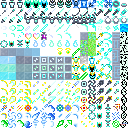
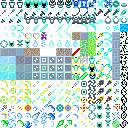
Dante - Fixed some misc bugs and serverplayershoot stuff

diff --git a/AlloyClient/Game/Objects/Player.cs b/AlloyClient/Game/Objects/Player.cs
@@ -324,17 +324,18 @@ public class Player : Entity {
                     proj.Reset(bId, dmg, projAngle, this, objProps, projPropsInfo);
                     Map.AddProjectile(proj);
 
-                    if (i == 0)
+                    if (i == 0) {
                         if (!string.IsNullOrEmpty(props.OldSound))
                             SoundManager.PlaySoundEffect(props.OldSound, SoundType.Weapon);
 
-                    shootPacket.Shots.Add(new ShootData {
-                        Time = time,
-                        BulletId = bId,
-                        ItemType = ability.ObjectType,
-                        StartingPos = new Position { X = Position.X, Y = Position.Y },
-                        Angle = projAngle
-                    });
+                        shootPacket.Shots.Add(new ShootData {
+                            Time = time,
+                            BulletId = bId,
+                            ItemType = ability.ObjectType,
+                            StartingPos = new Position { X = Position.X, Y = Position.Y },
+                            Angle = projAngle
+                        });
+                    }
 
                     startCount++;
                     if (startCount % nextCount == 0) projTypeIndex++;
@@ -572,13 +573,14 @@ public class Player : Entity {
         return attFreq;
     }
 
-    public void Shoot(float attackAngle, GameTime gameTime, bool isAbility) {
+public void Shoot(float attackAngle, GameTime gameTime, bool isAbility) {
         if (HasConditionEffect(ConditionEffects.Stunned) || HasConditionEffect(ConditionEffects.Paused)) return;
         var item = Equipment[0];
         if (item == null) return;
 
         var temp = AttackFrequency();
-        AttackPeriod = 1 / temp * (1 / item.RateOfFire);
+        AttackPeriod = (float)((1 / temp * (1 / item.RateOfFire)) * 1.02); 
+        
         if (gameTime.TotalMs < AttackStart + AttackPeriod) return;
 
         AttackAngle = attackAngle;
@@ -604,25 +606,25 @@ public class Player : Entity {
             var rawDmg = seededRand.Next(projDesc.MinDamage, projDesc.MaxDamage + 1);
             var dmg = (int)(rawDmg * (0.5f + Attack / 50f));
 
-            //Logger.Info($"Spawning Projectile: {seededRand} : {bId} : {AccountId} : {dmg}");
             if (!props.ProjectilesDict.TryGetValue(projDesc.BulletType, out var projProps))
                 projProps = props.Projectiles[0];
 
             var proj = ObjectPools.Projectiles.Pop();
             proj.Reset(bId, dmg, angle, this, objProps, projProps);
             Map.AddProjectile(proj);
-
-            if (i == 0)
+            
+            if (i == 0) {
                 if (!string.IsNullOrEmpty(props.OldSound))
                     SoundManager.PlaySoundEffect(props.OldSound, SoundType.Weapon);
 
-            PendingShots.Add(new ShootData {
-                Time = (int)Main.GameTime.TotalMs,
-                BulletId = bId,
-                ItemType = item.ObjectType,
-                StartingPos = new Position { X = Position.X, Y = Position.Y },
-                Angle = attackAngle
-            });
+                PendingShots.Add(new ShootData {
+                    Time = (int)Main.GameTime.TotalMs,
+                    BulletId = bId,
+                    ItemType = item.ObjectType,
+                    StartingPos = new Position { X = Position.X, Y = Position.Y },
+                    Angle = attackAngle
+                });
+            }
 
             startCount++;
             if (startCount % nextCount == 0) projTypeIndex++;

diff --git a/AlloyClient/Networking/Packets/Incoming/ServerPlayerShoot.cs b/AlloyClient/Networking/Packets/Incoming/ServerPlayerShoot.cs
@@ -10,9 +10,13 @@ public class ServerPlayerShoot : IncomingPacket<ServerPlayerShoot> {
     public int BulletId;
     public int OwnerId;
     public int ContainerType;
-    public Position StartingPos;
+    public int Prjtype;
+    
+    public Position StartingPos = new Position();
+    
     public float Angle;
     public short Damage;
+    public bool UsePlayerPos;
 
     public override PacketId PacketId => PacketId.ServerPlayerShoot;
 
@@ -23,34 +27,41 @@ public class ServerPlayerShoot : IncomingPacket<ServerPlayerShoot> {
         StartingPos.Reset();
         Angle = 0;
         Damage = 0;
+        Prjtype = 0;
+        UsePlayerPos = false;
     }
 
     public override void Read(NetworkReader reader) {
         BulletId = reader.ReadInt32();
         OwnerId = reader.ReadInt32();
         ContainerType = reader.ReadInt32();
+        Prjtype = reader.ReadInt32();
         StartingPos.Read(reader);
         Angle = reader.ReadSingle();
         Damage = reader.ReadInt16();
+        UsePlayerPos = reader.ReadBoolean();
     }
 
     public override void Handle() {
         if (!Map.Entities.TryGetValue(OwnerId, out var owner)) return;
         if (!ObjectLibrary.TypeToObjectProps.TryGetValue((ushort)ContainerType, out var itemDesc)) return;
-        
-        var enumerator = itemDesc.Projectiles.GetEnumerator();
-        if (!enumerator.MoveNext()) return;
-        var projDesc = enumerator.Current;
+    
+        if (itemDesc.Projectiles == null || itemDesc.Projectiles.Count == 0) return;
+        var projDesc = itemDesc.Projectiles[0];
+        if (string.IsNullOrEmpty(projDesc.ObjectId)) return;
 
         if (!ObjectLibrary.IdToObjectType.TryGetValue(projDesc.ObjectId, out var projObjType)) return;
         if (!ObjectLibrary.TypeToObjectProps.TryGetValue(projObjType, out var projObjDesc)) return;
 
         var proj = ObjectPools.Projectiles.Pop();
         proj.Reset(BulletId, Damage, Angle, owner, projObjDesc, projDesc);
-        
-        proj.SetStartPosition(new Vector2(StartingPos.X, StartingPos.Y));
-        proj.MarkActive(Map.CurrentTime);
-        
+    
+        if (UsePlayerPos) {
+            proj.SetStartPosition(new Vector2(owner.Position.X, owner.Position.Y));
+        } else {
+            proj.SetStartPosition(new Vector2(StartingPos.X, StartingPos.Y));
+        }
+    
         Map.AddProjectile(proj);
     }
 

diff --git a/AlloyClient/State/Settings.cs b/AlloyClient/State/Settings.cs
@@ -24,15 +24,15 @@ public static class Settings {
     public const string BuildVersion = "localhost";
     public const string BuildLabel = $"Version {BuildVersion}";
 
-    private const string AppEngineAddress = "116.255.20.214"; // 135.125.181.109
-    private const string AppEnginePort = "65001"; // 65001
+    private const string AppEngineAddress = "135.125.181.109"; // 135.125.181.109
+    private const string AppEnginePort = "8080"; // 65001
 
     public const string AppEngineUrl = $"http://{AppEngineAddress}:{AppEnginePort}";
     public const int AppEngineTimeout = 10000;
 
     // World-Engine connection info
-    public const string GameServerAddress = "116.255.20.214"; // 116.255.20.214
-    public const ushort GameServerPort = 2051; // 26959
+    public const string GameServerAddress = "135.125.181.109"; // 116.255.20.214
+    public const ushort GameServerPort = 26959; // 26959
 
     // Screen-Information
     public const int DefaultScreenWidth = 1280;

diff --git a/AlloyClient/Game/Components/UserInput.cs b/AlloyClient/Game/Components/UserInput.cs
@@ -227,11 +227,8 @@ public sealed class UserInput : Sprite {
             }
                 break;
             case true when Settings.Escape.CheckValue(key):
-                if (Map.Name == "Nexus" || Client.IsReconnecting)
-                    break;
-
-                Client.QueuePacket(Escape.CreatePacket());
-                Client.IsReconnecting = true;
+                Client.Disconnect();
+                Map.Reset();
                 break;
             case true when Settings.Interact.CheckValue(key):
                 if (Client.IsReconnecting)

diff --git a/AlloyClient/Ui/Components/Elements/DebugStats.cs b/AlloyClient/Ui/Components/Elements/DebugStats.cs
@@ -116,6 +116,7 @@ public class DebugStats : Sprite {
     private double _lastTime;
 
     public DebugStats() {
+        return;
         AddChild(_fps);
 
         AddChild(_frameTimeTimer);
@@ -163,6 +164,8 @@ public class DebugStats : Sprite {
     }
 
     private void OnFrameEnter() {
+        return;
+
         _fps.SetText($"FPS: {Math.Round(GameScreen.FPS, 1)}");
 
         var gameTime = Stage.GameTime;
